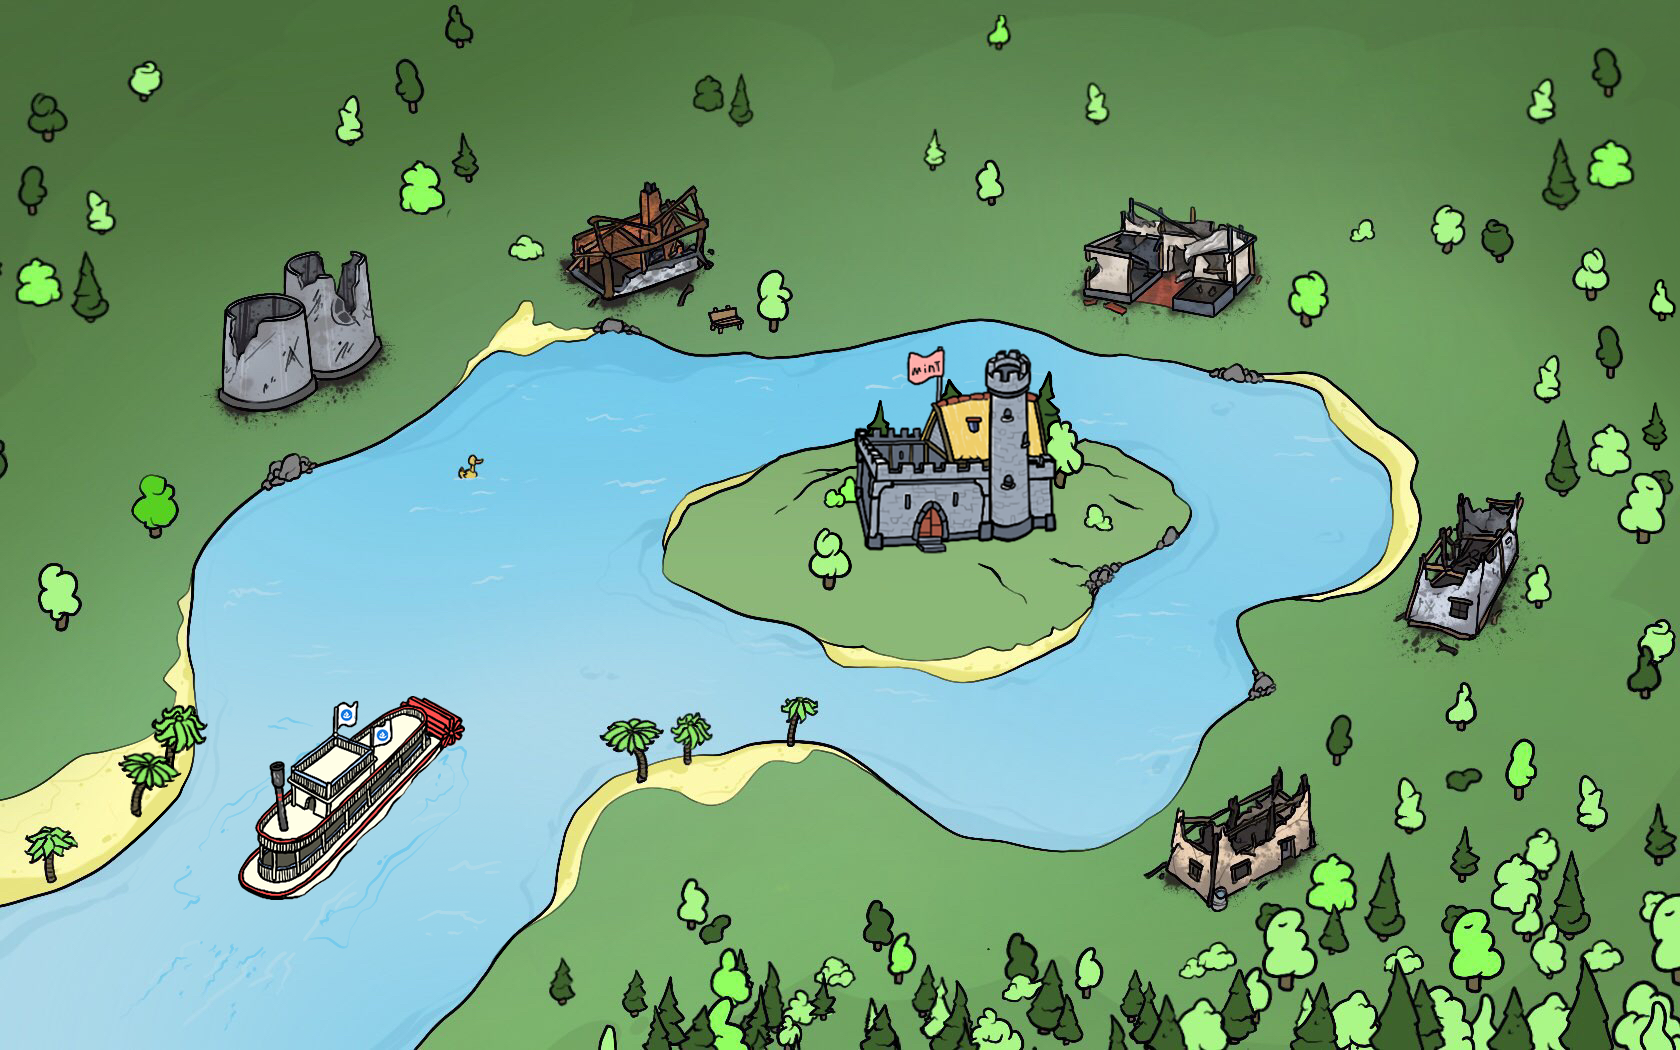
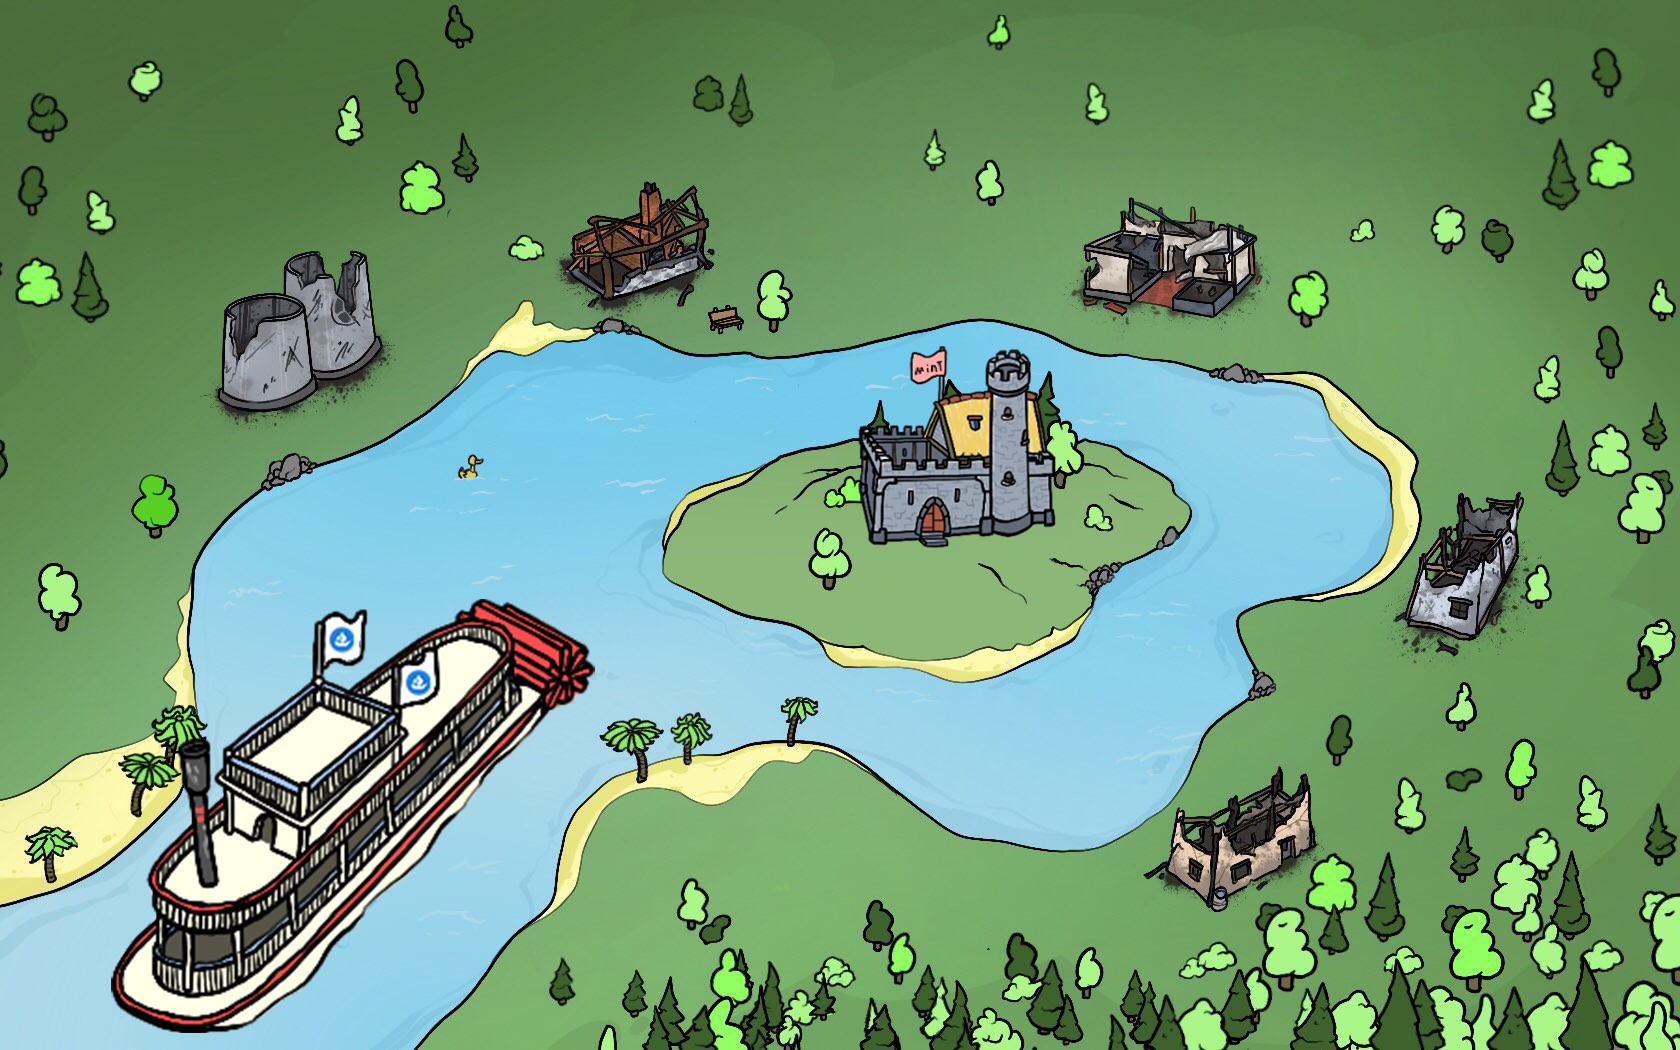
fixed clickable buildings scaling

Changed region(s): [[0.0619, 0.5486, 0.3714, 1.0], [0.4952, 0.3352, 0.65, 0.5486]]

diff --git a/src/App.js b/src/App.js
@@ -100,7 +100,7 @@ function App() {
     setIsCreditPanelOpen(false);
     setIsInfoPanelOpen(false);
     setIsMintPanelOpen(true);
-    bg = "/Background4.png";
+    bg = "/Background5.png";
     }
   };
 
@@ -113,7 +113,7 @@ function App() {
       bg = "/Background2.png";
     } else {
     setIsCreditPanelOpen(true);
-    bg = "/Background4.png";
+    bg = "/Background5.png";
     }
   };
 
@@ -126,7 +126,7 @@ function App() {
       bg = "/Background2.png";
     } else {
       setIsInfoPanelOpen(true);
-    bg = "/Background4.png";
+    bg = "/Background5.png";
     }
   };
 
@@ -580,6 +580,7 @@ function App() {
                               objectFit="contain"
                               src="/Mansion-Hover.png"
                               alt="MansionHover"
+                              height="30vh"
                             />
                           ) : (
                             <Image
@@ -588,6 +589,7 @@ function App() {
                               objectFit="contain"
                               src="/Mansion.png"
                               alt="ShopMansion"
+                              height="30vh"
                             />
                           )}
                         </Box>
@@ -696,6 +698,8 @@ function App() {
                               objectFit="contain"
                               src="/Boat-Hover.png"
                               alt="BoatHover"
+                              height="30vh"
+                              width="30vw"
                             />
                           ) : (
                             <Image
@@ -704,6 +708,8 @@ function App() {
                               objectFit="contain"
                               src="/Boat.png"
                               alt="Boat"
+                              height="30vh"
+                              width="30vw"
                             />
                           )}
                         </Box>
